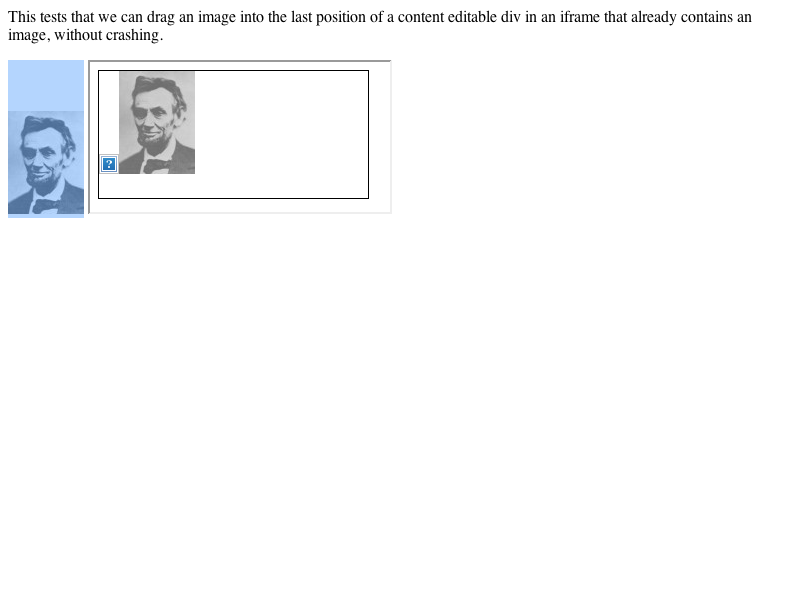
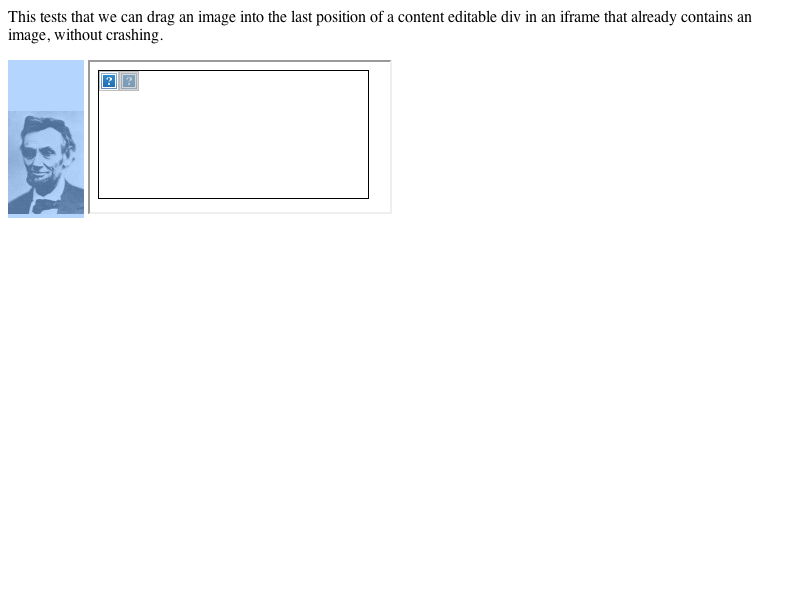
Images must re-load when an image-holding element moves into a new document https://bugs.webkit.org/show_bug.cgi?id=37127
Reviewed by Sam Weinig.

WebCore: 

Test: fast/images/move-image-to-new-document.html

* html/HTMLImageElement.cpp:
(WebCore::HTMLImageElement::willMoveToNewOwnerDocument): Call ImageLoader's
elementWillMoveToNewOwnerDocument function.
* html/HTMLImageElement.h: Added willMoveToNewOwnerDocument.
* html/HTMLInputElement.cpp:
(WebCore::HTMLInputElement::willMoveToNewOwnerDocument): Ditto.
* html/HTMLPlugInImageElement.cpp:
(WebCore::HTMLPlugInImageElement::willMoveToNewOwnerDocument): Ditto.
* html/HTMLPlugInImageElement.h: Ditto.
* html/HTMLVideoElement.cpp:
(WebCore::HTMLVideoElement::willMoveToNewOwnerDocument): Ditto.
* html/HTMLVideoElement.h: Ditto.
* svg/SVGImageElement.cpp:
(WebCore::SVGImageElement::willMoveToNewOwnerDocument): Ditto.
* svg/SVGImageElement.h: Ditto.

* html/HTMLMediaElement.h: Made willMoveToNewOwnerDocument protected
so it can be called by HTMLVideoElement.cpp.

* loader/ImageLoader.cpp:
(WebCore::ImageLoader::elementWillMoveToNewOwnerDocument): Added.
Resets the loader by clearing out the cached image.
* loader/ImageLoader.h: Added it.

LayoutTests: 

* fast/images/move-image-to-new-document-expected.txt: Added.
* fast/images/move-image-to-new-document.html: Added.
* fast/images/script-tests/move-image-to-new-document.js: Added.

* fast/js/resources/js-test-post.js: Added a feature for doing asynchronous scripting
tests. The caller sets jsTestIsAsync to true and then calls finishJSTest when done.
Used by the above test.
[…]

Changed region(s): [[0.125, 0.12, 0.25, 0.3]]

diff --git a/LayoutTests/fast/images/script-tests/move-image-to-new-document.js b/LayoutTests/fast/images/script-tests/move-image-to-new-document.js
@@ -1,0 +1,48 @@
+description("Test that when images are moved to a new document, a new load fires.");
+
+jsTestIsAsync = true;
+
+var subframe = document.createElement("iframe");
+document.body.appendChild(subframe);
+var subdocument = subframe.contentDocument;
+
+var types = [ "img", "input", "object", "embed" ];
+var i = 0;
+var element;
+
+function imageLoadedInSecondDocument()
+{
+    element.removeEventListener("load", imageLoadedInSecondDocument, false);
+    testPassed("Load event fired for " + element.tagName + " in both documents.");
+    subdocument.body.removeChild(element);
+    testNextType();
+}
+
+function imageLoadedInFirstDocument()
+{
+    element.removeEventListener("load", imageLoadedInFirstDocument, false);
+    document.body.removeChild(element);
+    subdocument.body.appendChild(element);
+    element.addEventListener("load", imageLoadedInSecondDocument, false);
+}
+
+function testNextType()
+{
+    if (i >= types.length) {
+        document.body.removeChild(subframe);
+        finishJSTest();
+        return;
+    }
+    var type = types[i++];
+    element = document.createElement(type);
+    if (type == "input")
+        element.type = "image";
+    element.data = "resources/test-load.jpg";
+    element.src = "resources/test-load.jpg";
+    document.body.appendChild(element);
+    element.addEventListener("load", imageLoadedInFirstDocument, false);
+}
+
+testNextType();
+
+var successfullyParsed = true;

diff --git a/LayoutTests/fast/js/resources/js-test-post.js b/LayoutTests/fast/js/resources/js-test-post.js
@@ -1,2 +1,13 @@
-shouldBeTrue("successfullyParsed");
-debug('<br /><span class="pass">TEST COMPLETE</span>');
+function finishJSTest()
+{
+    shouldBeTrue("successfullyParsed");
+    debug('<br /><span class="pass">TEST COMPLETE</span>');
+    if (window.jsTestIsAsync && window.layoutTestController)
+        layoutTestController.notifyDone();
+}
+
+if (window.jsTestIsAsync) {
+    if (window.layoutTestController)
+        layoutTestController.waitUntilDone();
+} else
+    finishJSTest();

diff --git a/LayoutTests/fast/images/move-image-to-new-document.html b/LayoutTests/fast/images/move-image-to-new-document.html
@@ -1,0 +1,13 @@
+<!DOCTYPE HTML PUBLIC "-//IETF//DTD HTML//EN">
+<html>
+<head>
+<link rel="stylesheet" href="../js/resources/js-test-style.css">
+<script src="../js/resources/js-test-pre.js"></script>
+</head>
+<body>
+<p id="description"></p>
+<div id="console"></div>
+<script src="script-tests/move-image-to-new-document.js"></script>
+<script src="../js/resources/js-test-post.js"></script>
+</body>
+</html>

diff --git a/WebCore/html/HTMLMediaElement.h b/WebCore/html/HTMLMediaElement.h
@@ -173,8 +173,11 @@ protected:
     HTMLMediaElement(const QualifiedName&, Document*);
     virtual ~HTMLMediaElement();
 
-    virtual void parseMappedAttribute(MappedAttribute *);
+    virtual void parseMappedAttribute(MappedAttribute*);
     virtual void attach();
+
+    virtual void willMoveToNewOwnerDocument();
+    virtual void didMoveToNewOwnerDocument();
 
 private:
     virtual bool checkDTD(const Node* newChild);    
@@ -197,9 +200,6 @@ private:
     
     void setReadyState(MediaPlayer::ReadyState);
     void setNetworkState(MediaPlayer::NetworkState);
-
-    virtual void willMoveToNewOwnerDocument();
-    virtual void didMoveToNewOwnerDocument();
 
     virtual Document* mediaPlayerOwningDocument();
     virtual void mediaPlayerNetworkStateChanged(MediaPlayer*);

diff --git a/WebCore/html/HTMLPlugInImageElement.cpp b/WebCore/html/HTMLPlugInImageElement.cpp
@@ -34,10 +34,6 @@ HTMLPlugInImageElement::HTMLPlugInImageElement(const QualifiedName& tagName, Doc
 {
 }
 
-HTMLPlugInImageElement::~HTMLPlugInImageElement()
-{
-}
-
 bool HTMLPlugInImageElement::isImageType()
 {
     if (m_serviceType.isEmpty() && protocolIs(m_url, "data"))
@@ -49,6 +45,13 @@ bool HTMLPlugInImageElement::isImageType()
     }
 
     return Image::supportsType(m_serviceType);
+}
+
+void HTMLPlugInImageElement::willMoveToNewOwnerDocument()
+{
+    if (m_imageLoader)
+        m_imageLoader->elementWillMoveToNewOwnerDocument();
+    HTMLPlugInElement::willMoveToNewOwnerDocument();
 }
 
 } // namespace WebCore

diff --git a/WebCore/html/HTMLPlugInImageElement.h b/WebCore/html/HTMLPlugInImageElement.h
@@ -30,8 +30,6 @@ class HTMLImageLoader;
 
 class HTMLPlugInImageElement : public HTMLPlugInElement {
 public:
-    virtual ~HTMLPlugInImageElement();
-
     const String& serviceType() const { return m_serviceType; }
     const String& url() const { return m_url; }
 
@@ -43,6 +41,9 @@ protected:
     OwnPtr<HTMLImageLoader> m_imageLoader;
     String m_serviceType;
     String m_url;
+
+private:
+    virtual void willMoveToNewOwnerDocument();
 };
 
 } // namespace WebCore

diff --git a/WebCore/html/HTMLInputElement.cpp b/WebCore/html/HTMLInputElement.cpp
@@ -2602,6 +2602,9 @@ void HTMLInputElement::documentDidBecomeActive()
 
 void HTMLInputElement::willMoveToNewOwnerDocument()
 {
+    if (m_imageLoader)
+        m_imageLoader->elementWillMoveToNewOwnerDocument();
+
     // Always unregister for cache callbacks when leaving a document, even if we would otherwise like to be registered
     if (needsActivationCallback())
         document()->unregisterForDocumentActivationCallbacks(this);

diff --git a/WebCore/svg/SVGImageElement.h b/WebCore/svg/SVGImageElement.h
@@ -62,6 +62,8 @@ namespace WebCore {
         virtual bool hasRelativeValues() const;
 
     private:
+        virtual void willMoveToNewOwnerDocument();
+
         DECLARE_ANIMATED_PROPERTY(SVGImageElement, SVGNames::xAttr, SVGLength, X, x)
         DECLARE_ANIMATED_PROPERTY(SVGImageElement, SVGNames::yAttr, SVGLength, Y, y)
         DECLARE_ANIMATED_PROPERTY(SVGImageElement, SVGNames::widthAttr, SVGLength, Width, width)

diff --git a/WebCore/svg/SVGImageElement.cpp b/WebCore/svg/SVGImageElement.cpp
@@ -185,6 +185,12 @@ void SVGImageElement::addSubresourceAttributeURLs(ListHashSet<KURL>& urls) const
     addSubresourceURL(urls, document()->completeURL(href()));
 }
 
+void SVGImageElement::willMoveToNewOwnerDocument()
+{
+    m_imageLoader.elementWillMoveToNewOwnerDocument();
+    SVGStyledTransformableElement::willMoveToNewOwnerDocument();
+}
+
 }
 
 #endif // ENABLE(SVG)

diff --git a/WebCore/html/HTMLImageElement.cpp b/WebCore/html/HTMLImageElement.cpp
@@ -435,4 +435,10 @@ void HTMLImageElement::addSubresourceAttributeURLs(ListHashSet<KURL>& urls) cons
     addSubresourceURL(urls, document()->completeURL(getAttribute(usemapAttr)));
 }
 
+void HTMLImageElement::willMoveToNewOwnerDocument()
+{
+    m_imageLoader.elementWillMoveToNewOwnerDocument();
+    HTMLElement::willMoveToNewOwnerDocument();
+}
+
 }

diff --git a/WebCore/loader/ImageLoader.cpp b/WebCore/loader/ImageLoader.cpp
@@ -277,6 +277,11 @@ void ImageLoader::dispatchPendingLoadEvents()
     loadEventSender().dispatchPendingEvents();
 }
 
+void ImageLoader::elementWillMoveToNewOwnerDocument()
+{
+    setImage(0);
+}
+
 ImageEventSender::ImageEventSender(const AtomicString& eventType)
     : m_eventType(eventType)
     , m_timer(this, &ImageEventSender::timerFired)

diff --git a/WebCore/loader/ImageLoader.h b/WebCore/loader/ImageLoader.h
@@ -45,6 +45,8 @@ public:
     // doesn't change; starts new load unconditionally (matches Firefox and Opera behavior).
     void updateFromElementIgnoringPreviousError();
 
+    void elementWillMoveToNewOwnerDocument();
+
     Element* element() const { return m_element; }
     bool imageComplete() const { return m_imageComplete; }
 
